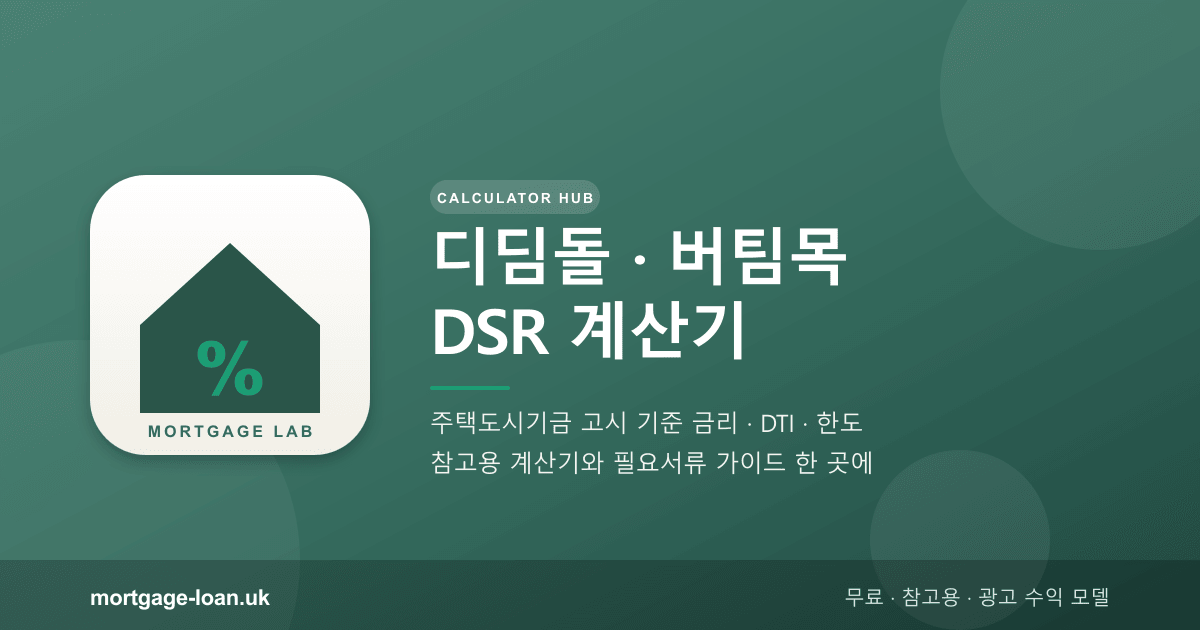
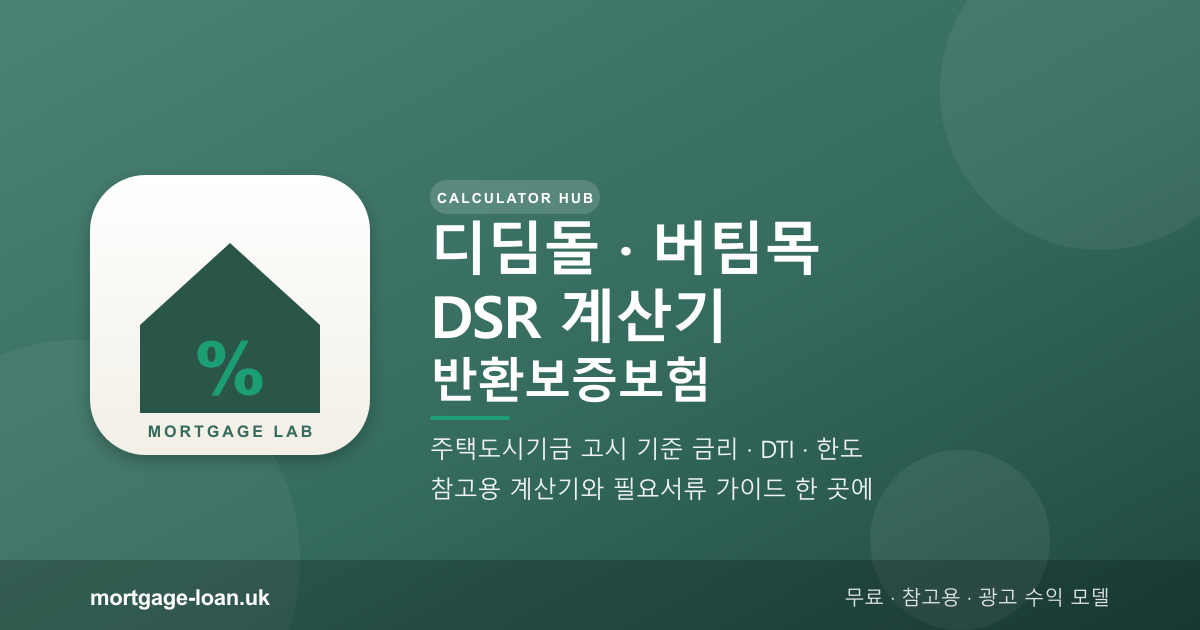
feat(home): 등기부 CTA 강조, OG 배너에 반환보증보험 반영
Made-with: Cursor

Changed region(s): [[0.3392, 0.3317, 0.74, 0.8143]]

diff --git a/css/styles.css b/css/styles.css
@@ -778,44 +778,74 @@ footer .footer-note {
   padding-bottom: 2.5rem;
 }
 
-.hub-spotlight-bar {
-  margin: 0.15rem 0 1.15rem;
-  padding: 0.72rem 1rem;
+/* 홈 상단: 등기부등본 가이드 강조 CTA */
+.hub-registry-cta {
+  margin: 0 0 1.25rem;
+  padding: 1.15rem 1.1rem 1.2rem;
   border-radius: var(--radius);
-  border: 1px solid var(--border);
-  background: linear-gradient(165deg, var(--surface2) 0%, var(--surface) 55%);
-  box-shadow: 0 4px 14px rgba(32, 72, 62, 0.06);
-  display: flex;
-  flex-wrap: wrap;
-  align-items: center;
-  justify-content: center;
-  gap: 0.35rem 0.55rem;
-  font-size: 0.9rem;
-  line-height: 1.45;
+  border: 1px solid rgba(53, 107, 94, 0.28);
+  background: linear-gradient(168deg, #f0faf5 0%, var(--surface) 50%, #eef6f1 100%);
+  box-shadow: 0 6px 22px rgba(32, 72, 62, 0.09);
   text-align: center;
 }
 
-.hub-spotlight-bar__label {
-  color: var(--muted);
-  font-weight: 600;
+.hub-registry-cta__tagline {
+  margin: 0 0 0.9rem;
+  font-size: clamp(1.05rem, 2.8vw, 1.2rem);
+  font-weight: 800;
+  line-height: 1.4;
+  letter-spacing: -0.03em;
+  color: var(--text);
 }
 
-.hub-spotlight-bar a {
-  color: var(--btn-primary-mid);
-  font-weight: 700;
+.hub-registry-cta__btn {
+  display: inline-flex;
+  flex-direction: column;
+  align-items: center;
+  justify-content: center;
+  gap: 0.35rem;
+  width: 100%;
+  max-width: 520px;
+  margin: 0 auto;
+  padding: 1rem 1.25rem 1.05rem;
+  border-radius: 14px;
+  background: linear-gradient(
+    165deg,
+    var(--btn-primary-top) 0%,
+    var(--btn-primary-mid) 48%,
+    var(--btn-primary-bottom) 100%
+  );
+  color: #f4faf8 !important;
   text-decoration: none;
-  border-bottom: 2px solid rgba(53, 107, 94, 0.38);
+  font-weight: 800;
+  border: 1px solid var(--btn-primary-border);
+  box-shadow: 0 6px 20px rgba(32, 88, 68, 0.28);
+  transition: filter 0.15s ease, box-shadow 0.15s ease, transform 0.15s ease;
 }
 
-.hub-spotlight-bar a:hover {
-  color: var(--accent);
-  border-bottom-color: var(--accent);
+.hub-registry-cta__btn:hover {
+  filter: brightness(1.05);
+  box-shadow: var(--btn-primary-shadow-hover);
+  transform: translateY(-2px);
 }
 
-.hub-spotlight-bar__hint {
-  color: var(--muted);
-  font-size: 0.82rem;
-  font-weight: 500;
+.hub-registry-cta__btn:focus-visible {
+  outline: 3px solid rgba(53, 107, 94, 0.45);
+  outline-offset: 3px;
+}
+
+.hub-registry-cta__btn-title {
+  font-size: clamp(1.2rem, 3.2vw, 1.5rem);
+  letter-spacing: -0.04em;
+  line-height: 1.2;
+}
+
+.hub-registry-cta__btn-sub {
+  font-size: 0.85rem;
+  font-weight: 600;
+  opacity: 0.92;
+  letter-spacing: -0.02em;
+  line-height: 1.35;
 }
 
 /* 반환보증보험 계산기 2열 */

diff --git a/index.html b/index.html
@@ -83,6 +83,14 @@
     </header>
 
     <main class="hub-main">
+      <div class="hub-registry-cta" role="navigation" aria-label="등기부등본 읽기 가이드">
+        <p class="hub-registry-cta__tagline">전세·매매 전에 꼭 확인해야 할 등기부등본</p>
+        <a class="hub-registry-cta__btn" href="guides/registry-deed-howto.html">
+          <span class="hub-registry-cta__btn-title">등기부등본 보는 법</span>
+          <span class="hub-registry-cta__btn-sub">표제부·갑구·을구 샘플 · 실제 체크리스트</span>
+        </a>
+      </div>
+
       <div class="hub-grid">
         <section class="card hub-card">
           <h2 class="hub-card-title">디딤돌 DTI·금리 계산기</h2>
@@ -133,12 +141,6 @@
         </section>
 
       </div>
-
-      <p class="hub-spotlight-bar" role="navigation" aria-label="등기부등본 읽기 가이드">
-        <span class="hub-spotlight-bar__label">전세·매매 전에</span>
-        <a href="guides/registry-deed-howto.html">등기부등본 보는 법</a>
-        <span class="hub-spotlight-bar__hint">표제부·갑구·을구 샘플 · 체크리스트</span>
-      </p>
 
       <section class="card" style="margin-top: 1.25rem">
         <h2>이 사이트에서 할 수 있는 것</h2>
